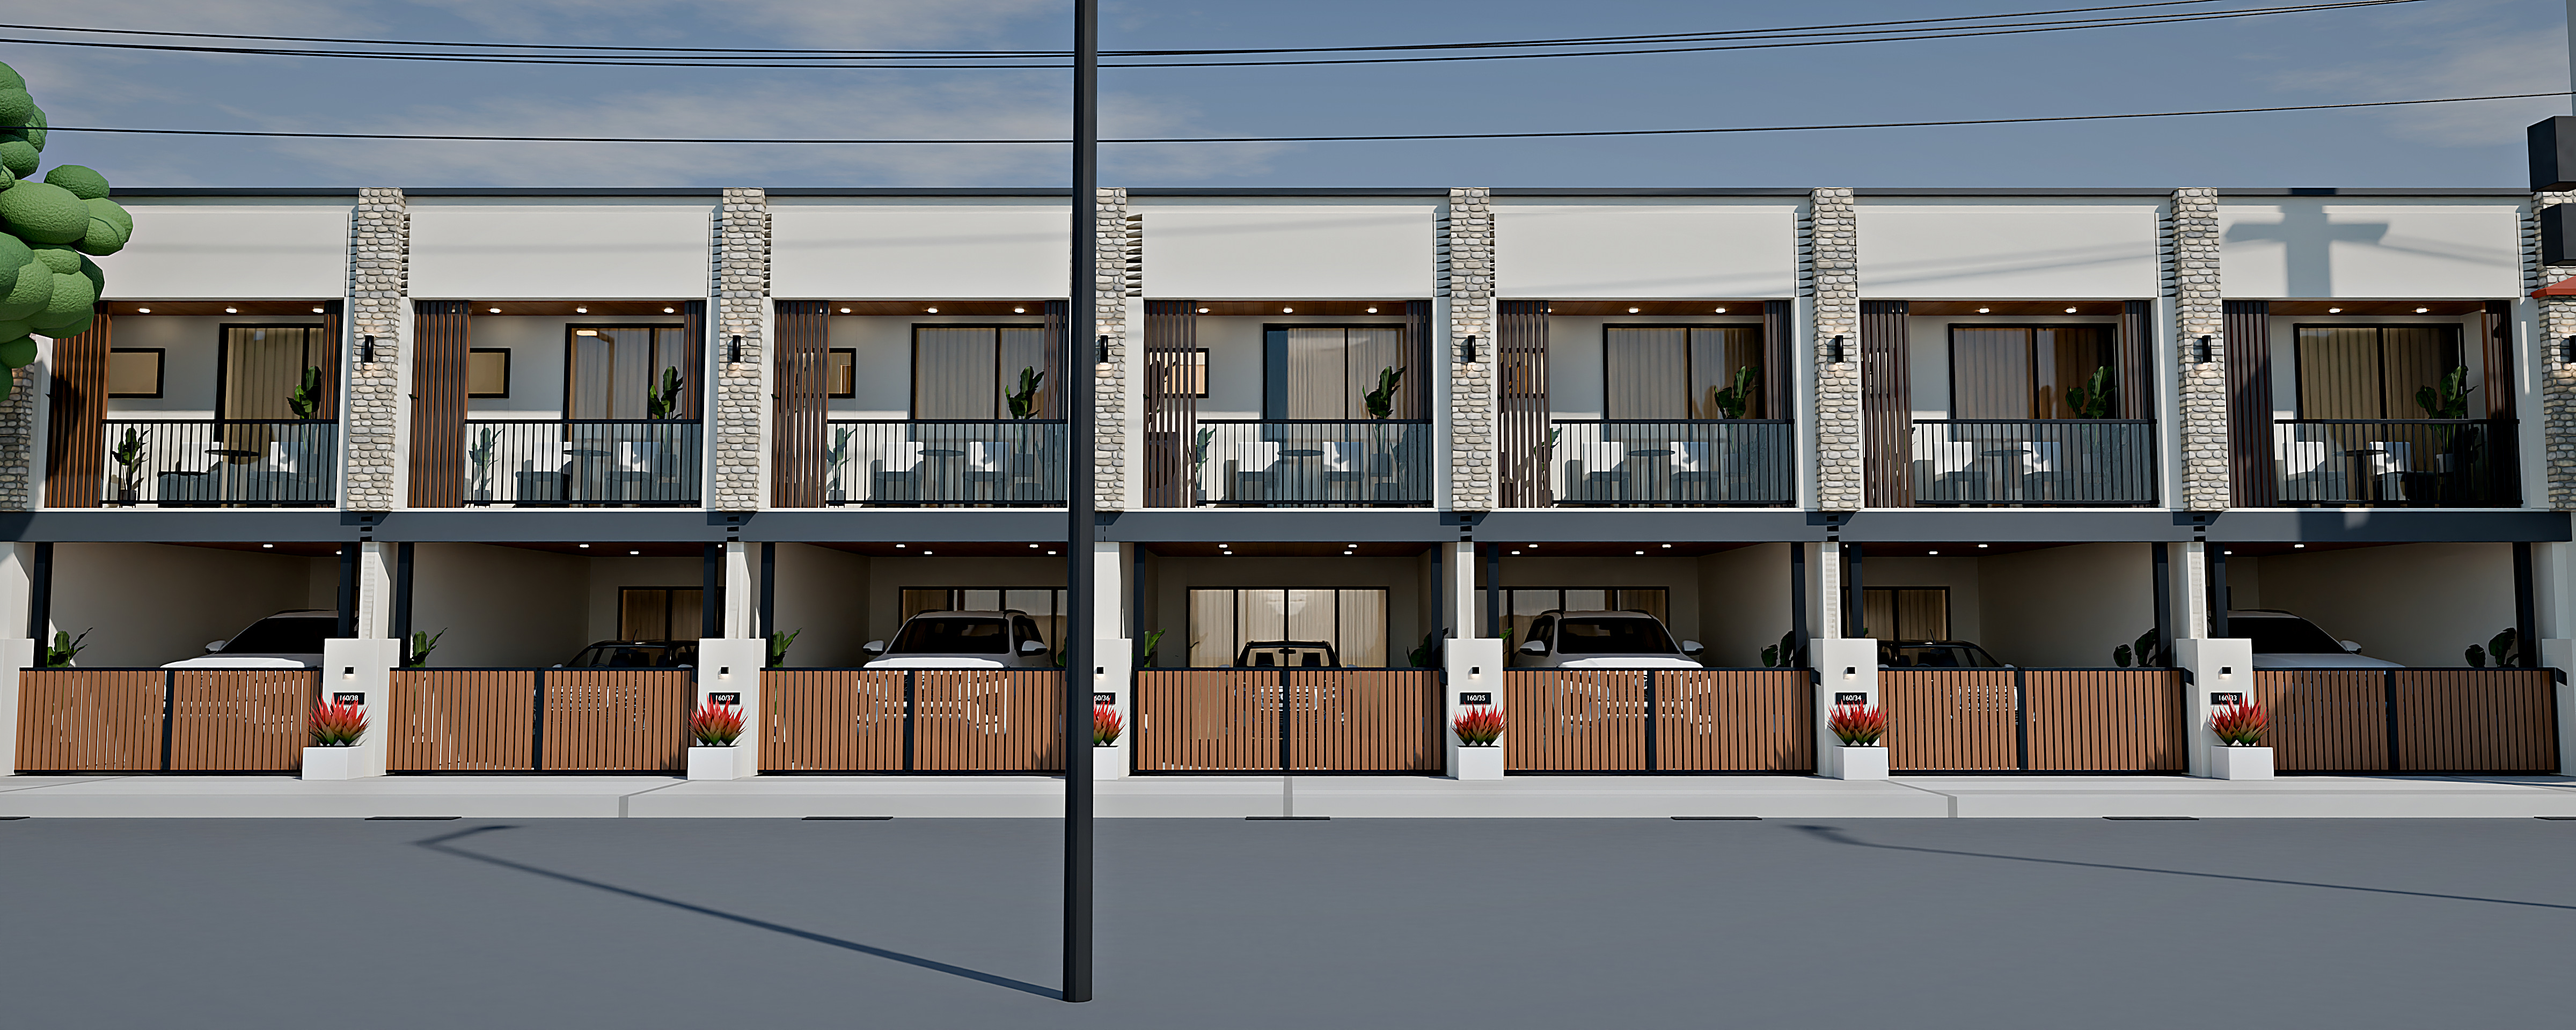
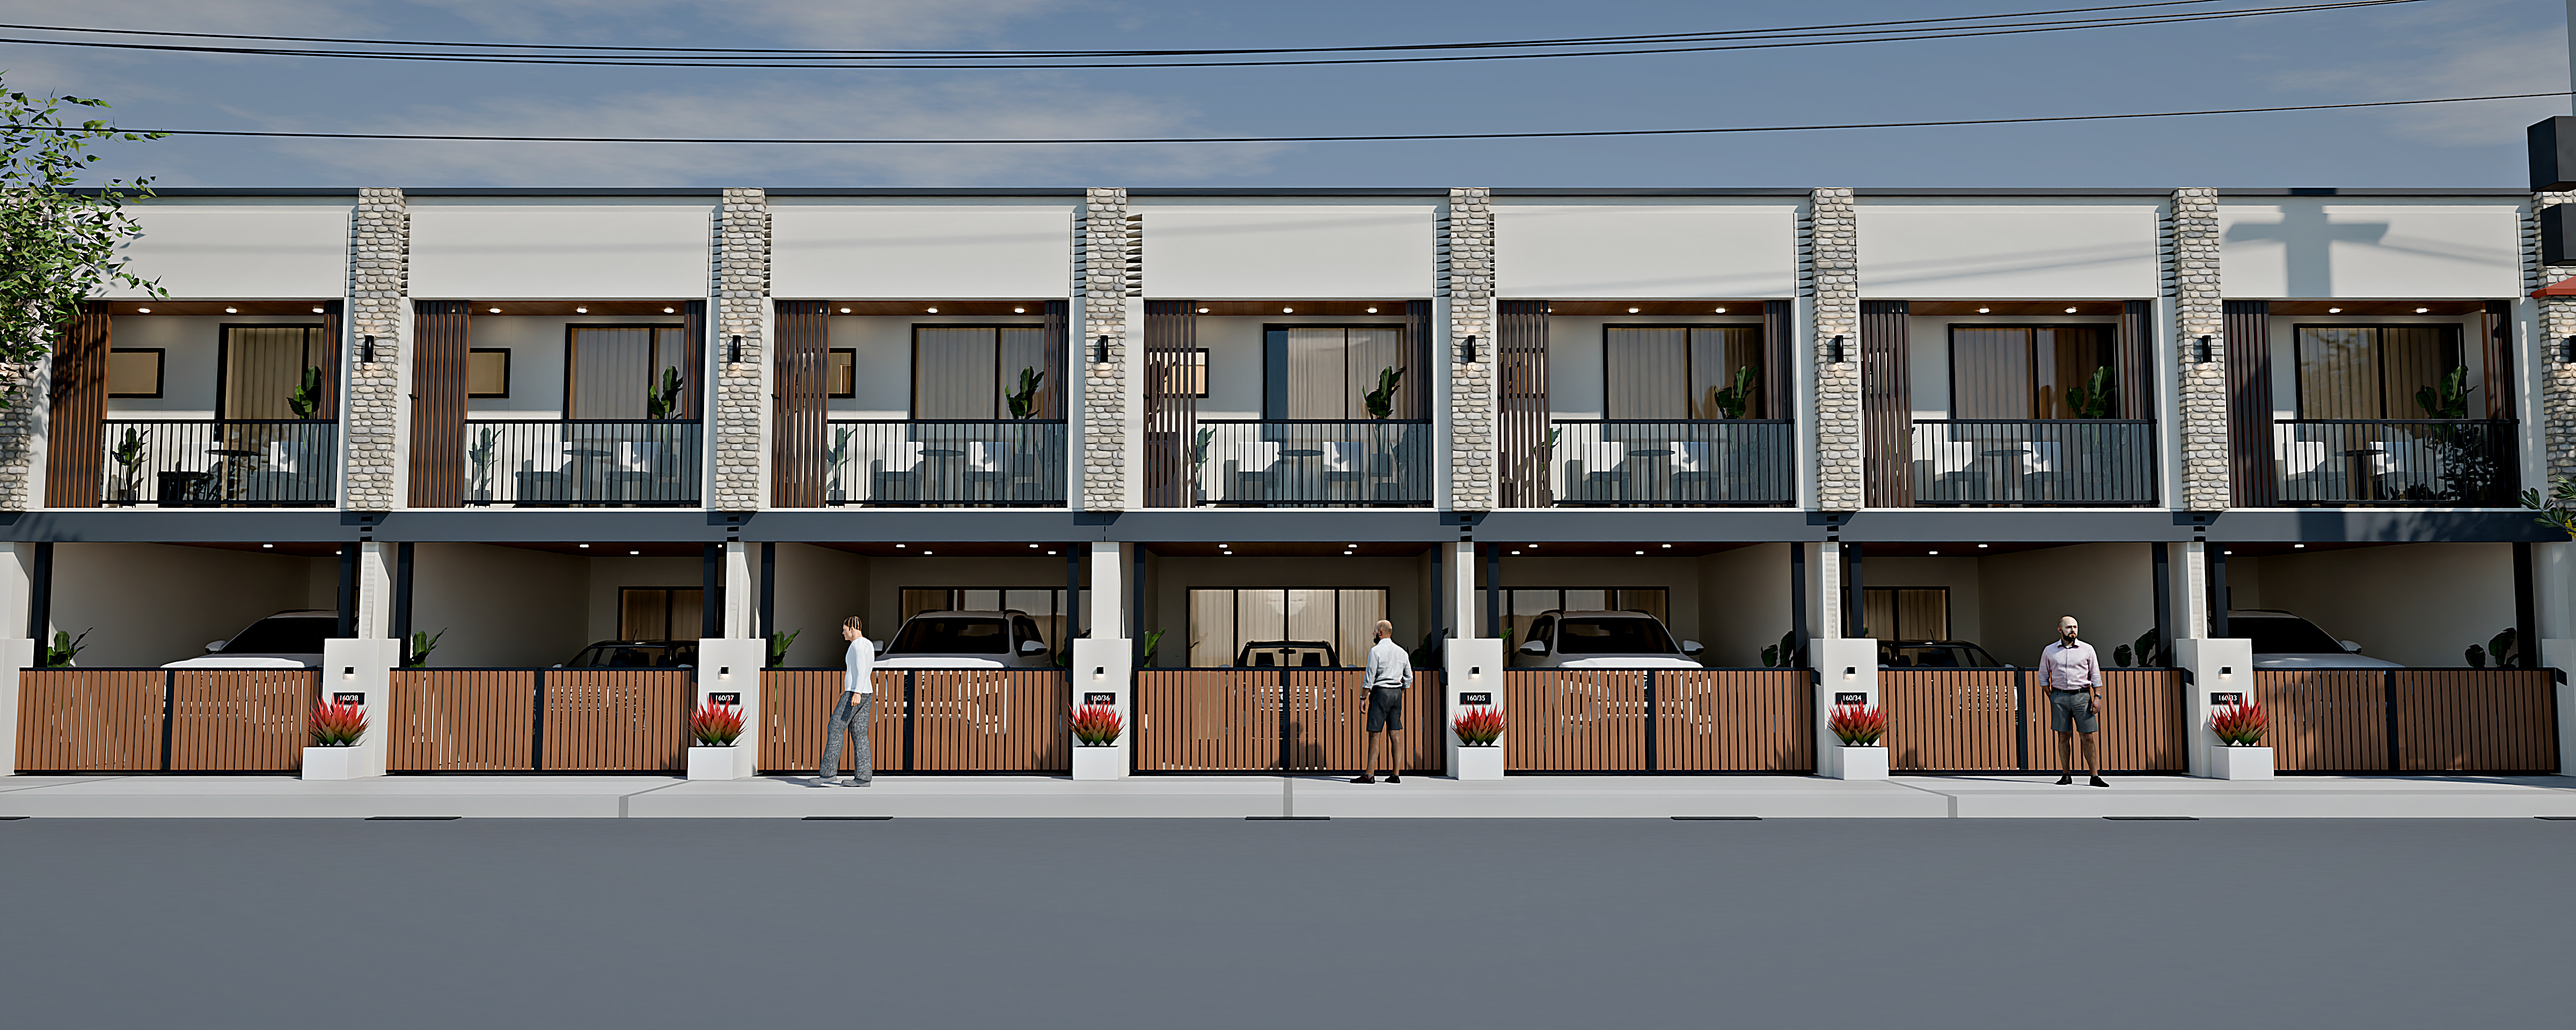
Add 4K street views with trees and people, Minimal Luxury style set
Claude-Session: https://claude.ai/code/session_01DjtZZpofJSiPzhudUhkTtp

diff --git a/index.html b/index.html
@@ -192,7 +192,7 @@ body{padding-bottom:76px}
 <script>
 try{if(location.hash==='#model')setTimeout(()=>document.getElementById('model').scrollIntoView({block:'start'}),300);}catch(e){}
 (function(){
-const K4=["05-living-dining", "05b-living-tv", "06-kitchen", "07-master-bedroom", "00-day-street-angle", "00-dusk-street-angle", "01-front-facade", "00-front-night", "00-front-day", "09-bedroom2", "11-bedroom3", "04-stair-floor1"];
+const K4=["05-living-dining", "05b-living-tv", "06-kitchen", "07-master-bedroom", "00-day-street-angle", "00-dusk-street-angle", "01-front-facade", "00-front-night", "00-front-day", "09-bedroom2", "11-bedroom3", "04-stair-floor1", "st-minimal_lux-living", "st-minimal_lux-living2", "st-minimal_lux-kitchen", "st-minimal_lux-master"];
 const R=[['00-dusk-street-angle','หน้าบ้านยามค่ำ มุมถนน','เสาเลขที่บ้าน · หินกาบ · ไฟผนัง'],['00-day-street-angle','หน้าบ้านกลางวัน มุมถนน','ทั้งแถว 7 หลัง'],['00-front-night','หน้าบ้านยามค่ำ','7 หลัง 4 สไตล์: กลาง Luxury · Minimal Luxury · Japandi · Muji'],['00-front-day','หน้าบ้านกลางวัน','แต่ละหลังตกแต่งต่างกัน'],['01-front-facade','หน้าบ้าน มุมเฉียง','เสาหินกาบคั่นระหว่างบ้าน · ระแนงไม้'],['02-floor1-overview','ภาพรวมชั้น 1','จอดรถ · นั่งเล่น · ทานข้าว · ห้องน้ำ · บันได · ครัว'],['03-floor2-overview','ภาพรวมชั้น 2','3 ห้องนอน · 2 ห้องน้ำ · ระเบียง'],['05-living-dining','ห้องนั่งเล่น','ผนังทีวีหินอ่อน + ไม้วอลนัท · โซฟาตัว L'],['05b-living-tv','นั่งเล่น + ทานข้าว','โต๊ะหินอ่อน · ฝ้าหลุมไฟซ่อน'],['06-kitchen','ครัว','ครัวตัว L + ไอส์แลนด์หินอ่อน'],['04-stair-floor1','บันไดตัวยู','ขาขึ้นฝั่งห้องน้ำ'],['12-bathroom1','ห้องน้ำ 1','ชั้น 1'],['07-master-bedroom','ห้องนอนใหญ่','หัวเตียงบุกำมะหยี่ · ตู้กระจกกรอบทอง'],['08-ensuite','ห้องน้ำในห้องนอนใหญ่','ติดระเบียง'],['09-bedroom2','ห้องนอนกลาง','ชั้น 2'],['10-bathroom2','ห้องน้ำ 2','ชั้น 2'],['11-bedroom3','ห้องนอน 3','ชั้น 2 · ด้านหลัง']];
 const g=document.getElementById('ggrid');
 R.slice(1).forEach((r,i)=>{const b=document.createElement('button');b.className='gthumb';b.dataset.i=i+1;b.innerHTML='<img loading="lazy" src="renders/lx-'+r[0]+'.jpg" alt="'+r[1]+'"><span class="gcap">'+r[1]+'<small>'+r[2]+'</small></span>';g.appendChild(b);});
